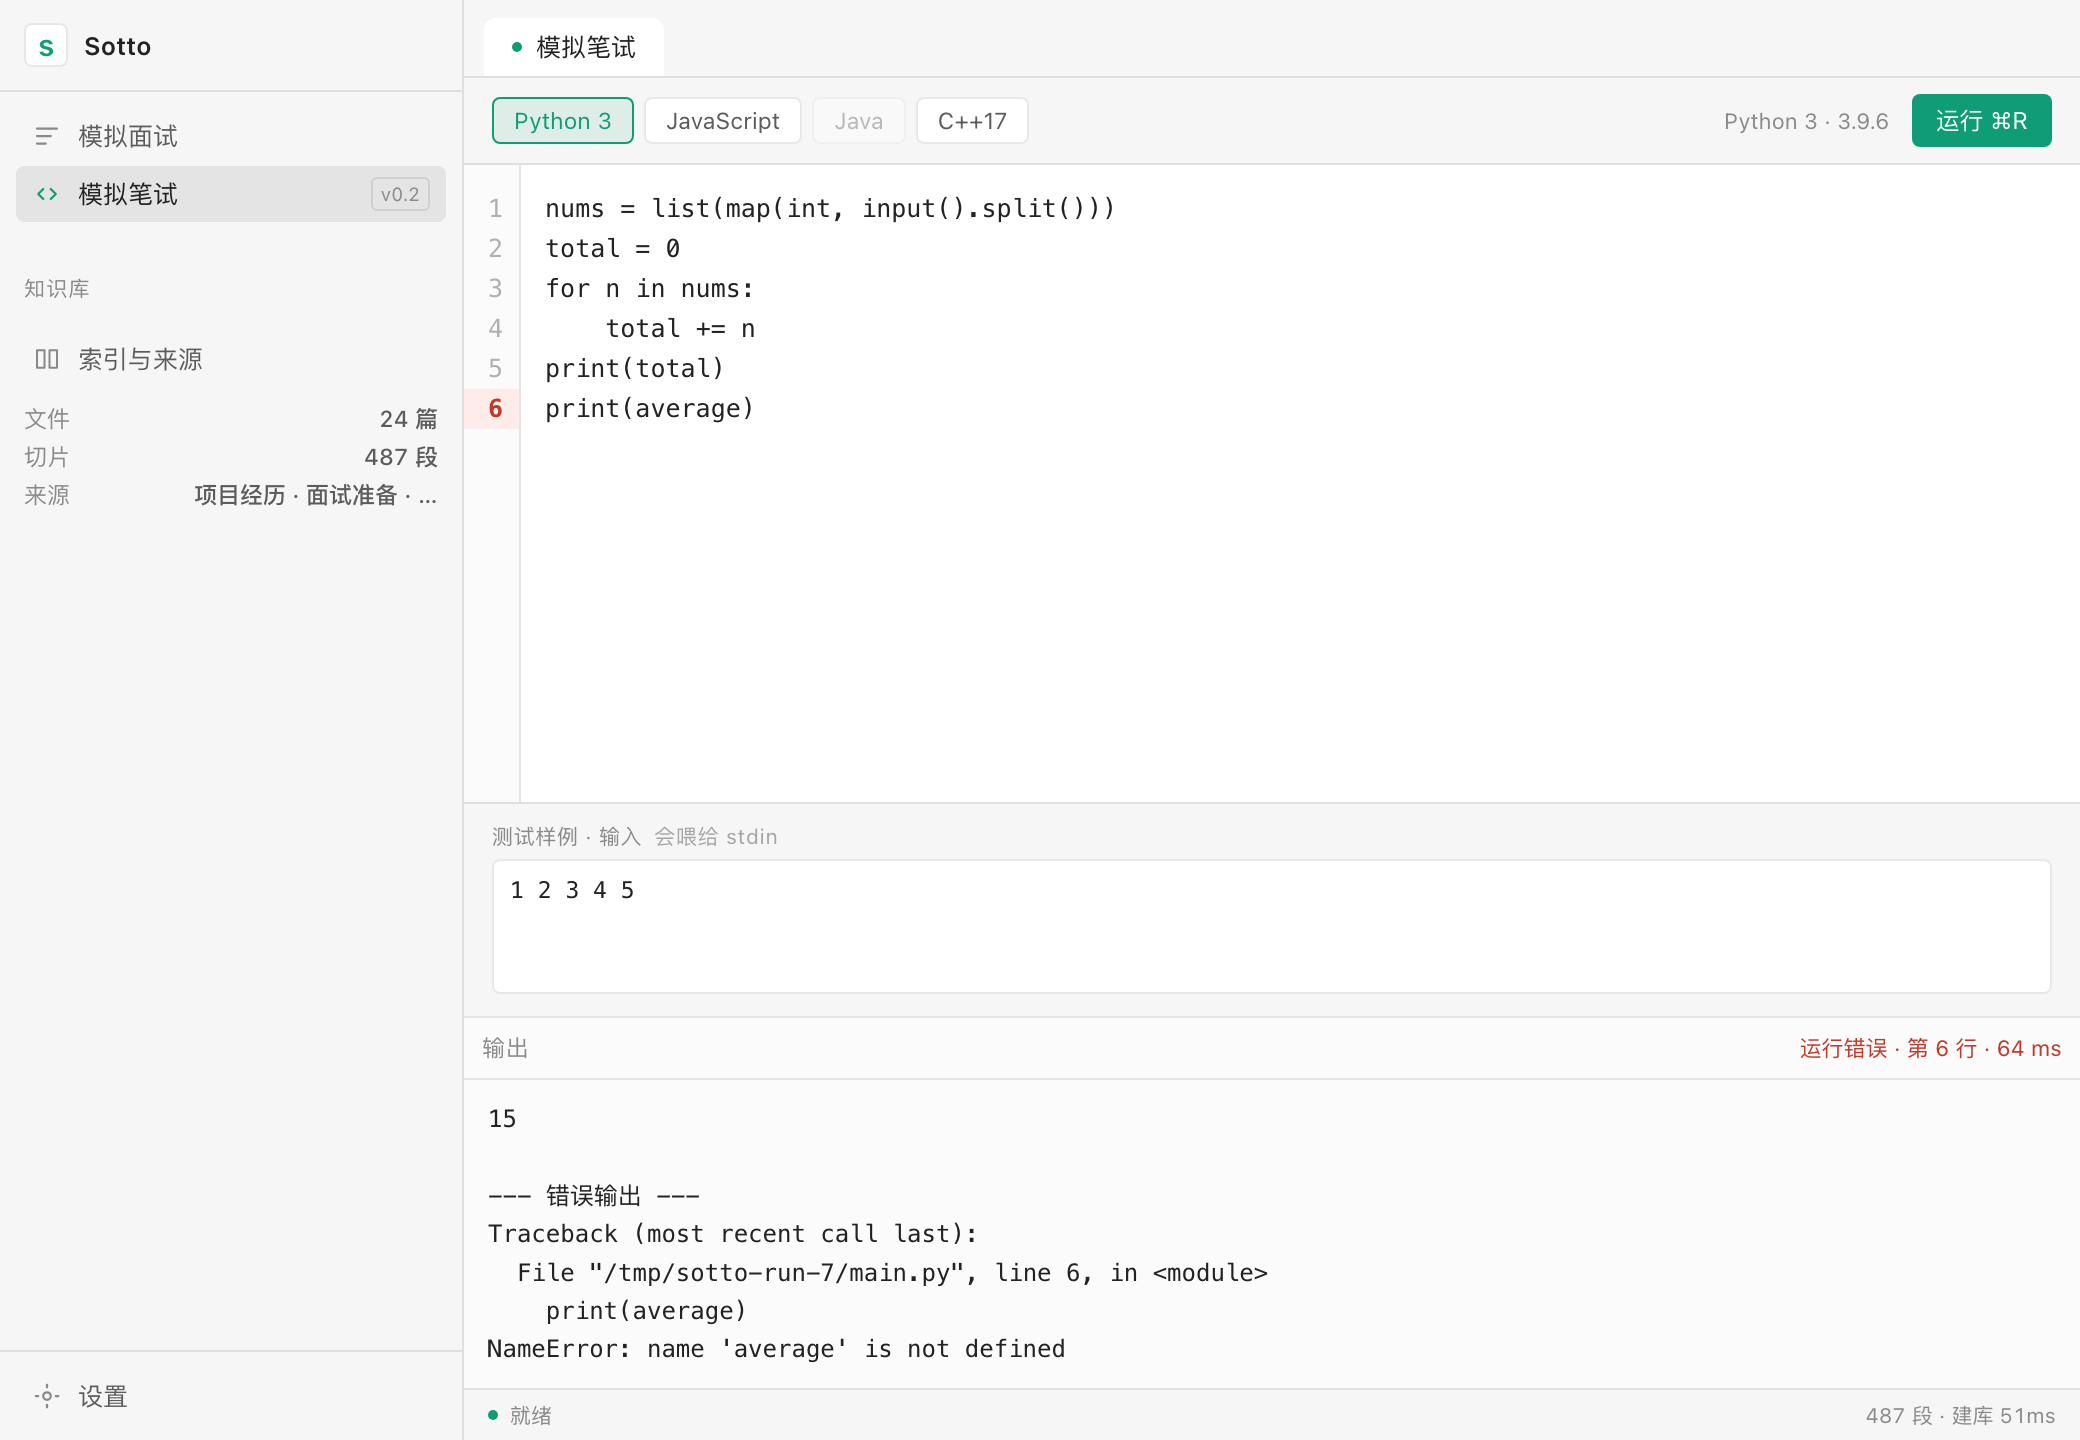
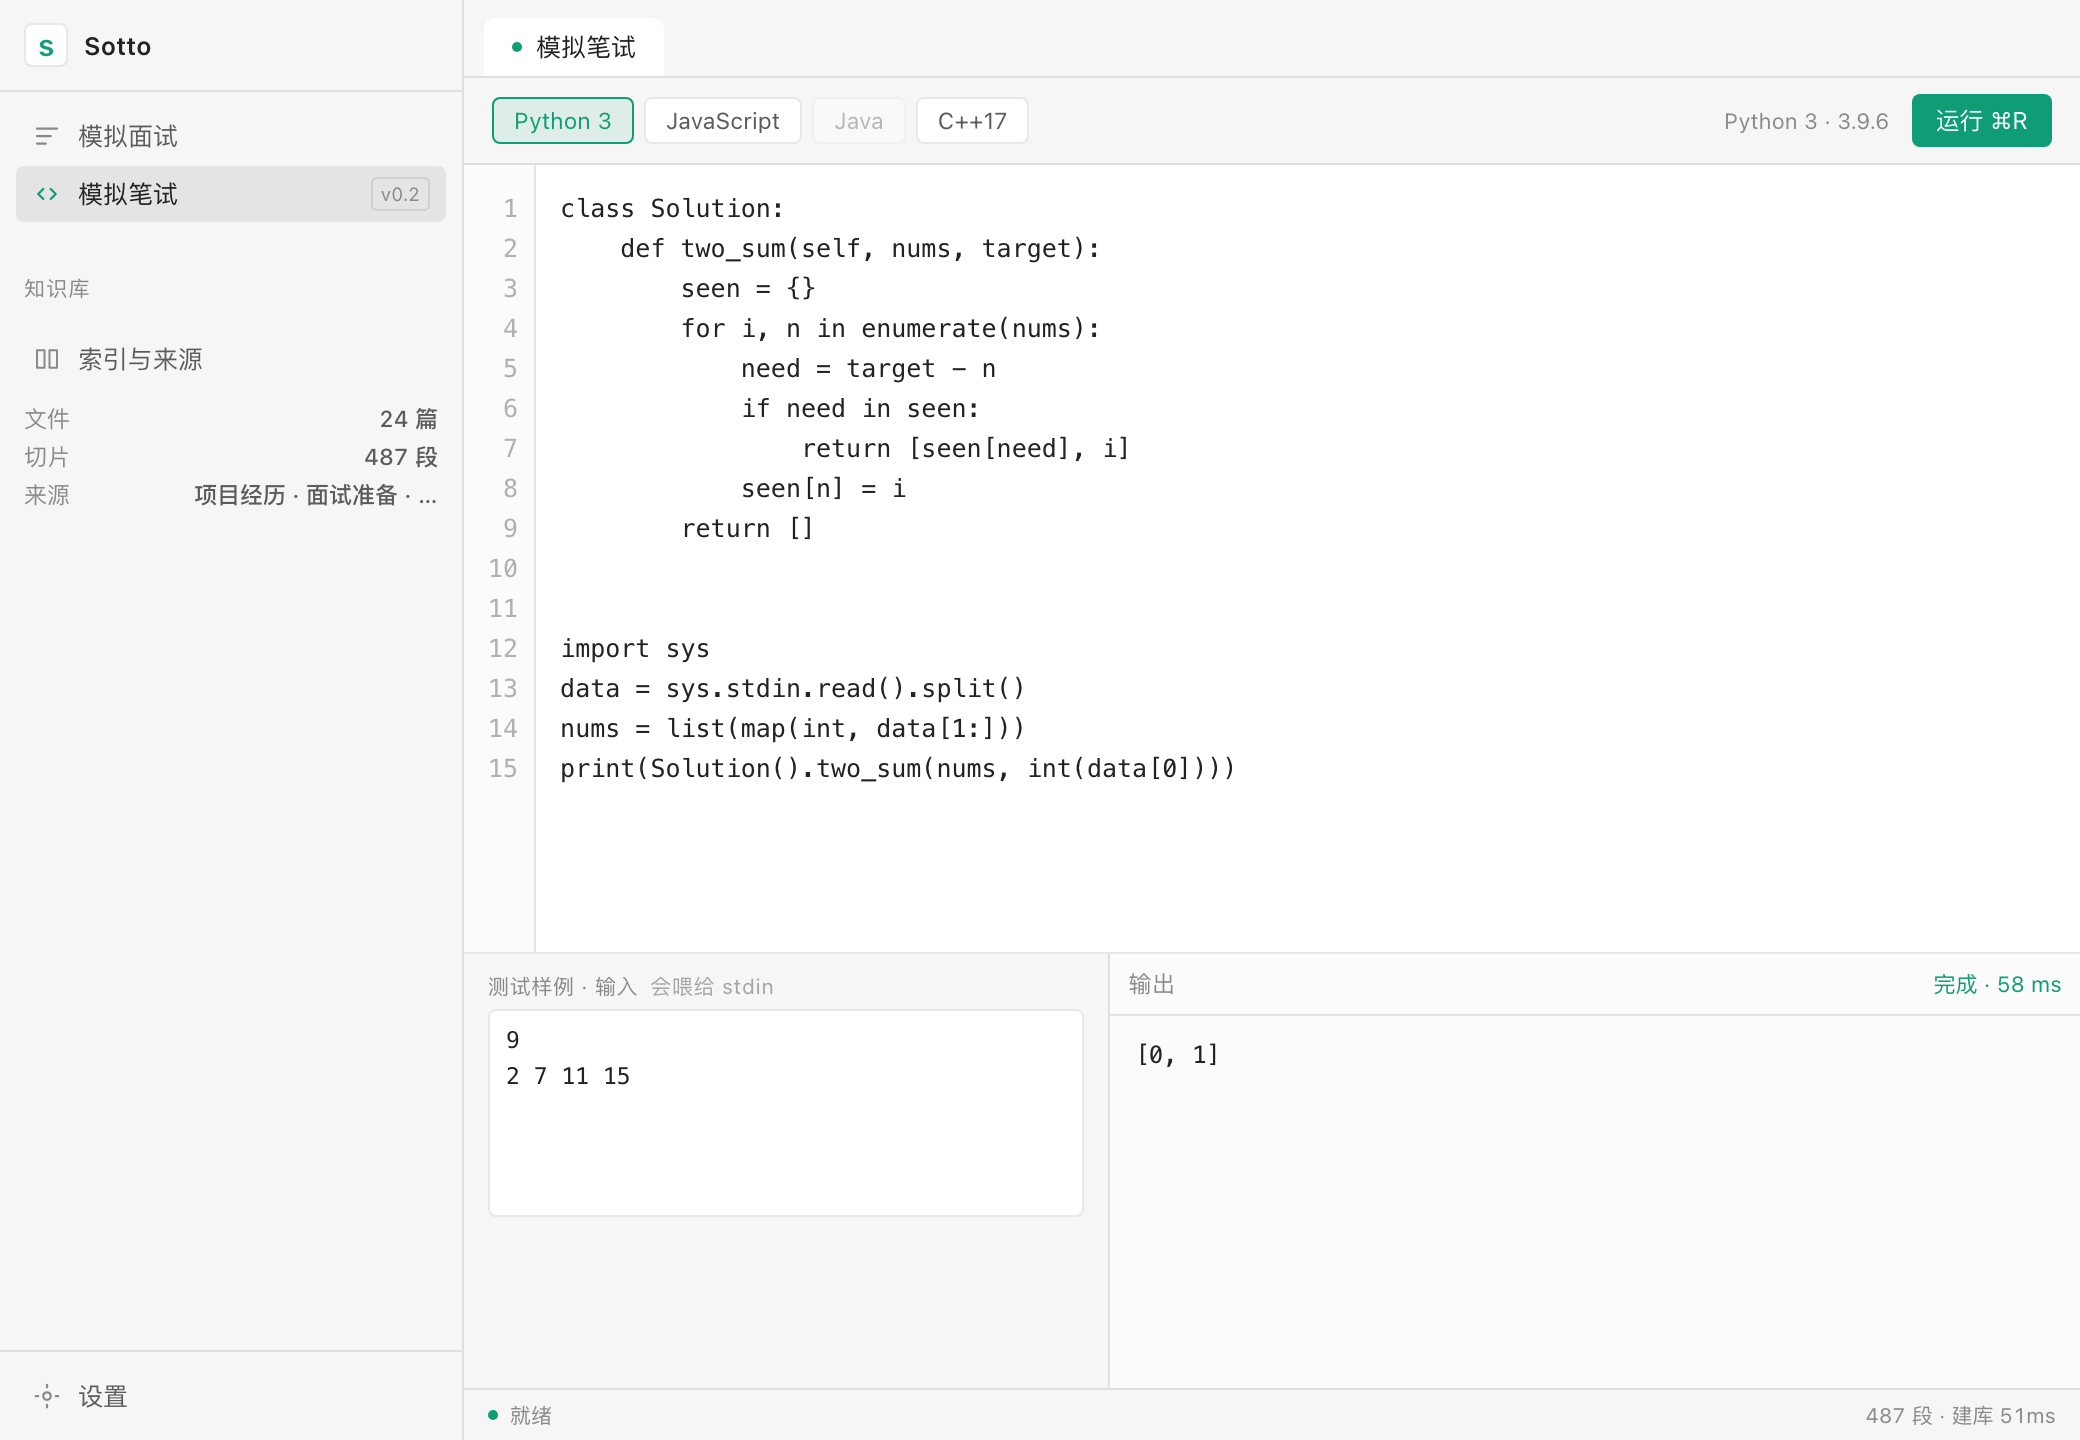
ui: 测试样例与输出改为左右并排，让出的高度归代码区
- 底部合并为一条 218px 的横带：左 40% 样例输入，右 60% 输出
- 代码区因此多出约 70px 高
- 对齐探针复跑：普通/全屏、滚动/未滚动，偏差仍全为 0

diff --git a/ui/index.html b/ui/index.html
@@ -111,19 +111,21 @@
               <textarea id="code" class="code-area" spellcheck="false" autocapitalize="off" autocomplete="off"></textarea>
             </div>
 
-            <div class="samples">
-              <label class="sample">
-                <span>测试样例 · 输入<em>会喂给 stdin</em></span>
-                <textarea id="stdin" class="sample-area" rows="3" placeholder="留空则不喂输入"></textarea>
-              </label>
-            </div>
-
-            <div class="output">
-              <div class="out-head">
-                <span class="out-title">输出</span>
-                <span class="out-meta" id="runMeta"></span>
+            <div class="bottom">
+              <div class="samples">
+                <label class="sample">
+                  <span>测试样例 · 输入<em>会喂给 stdin</em></span>
+                  <textarea id="stdin" class="sample-area" rows="3" placeholder="留空则不喂输入"></textarea>
+                </label>
               </div>
-              <pre id="outBody" class="out-body"></pre>
+
+              <div class="output">
+                <div class="out-head">
+                  <span class="out-title">输出</span>
+                  <span class="out-meta" id="runMeta"></span>
+                </div>
+                <pre id="outBody" class="out-body"></pre>
+              </div>
             </div>
           </div>
         </section>

diff --git a/ui/style.css b/ui/style.css
@@ -737,19 +737,27 @@ textarea::placeholder {
   tab-size: 4;
 }
 
-/* 测试样例 */
-.samples {
+/* 底部：左测试样例 / 右输出 */
+.bottom {
   flex: none;
   display: flex;
-  gap: 14px;
-  padding: 9px 14px 11px;
+  height: 218px;
   border-top: 1px solid var(--border);
+}
+
+.samples {
+  flex: 0 0 40%;
+  min-width: 220px;
+  display: flex;
+  padding: 9px 12px 11px;
+  border-right: 1px solid var(--border);
   background: var(--bg-secondary);
 }
 
 .sample {
   flex: 1;
   min-width: 0;
+  min-height: 0;
   display: flex;
   flex-direction: column;
   gap: 4px;
@@ -768,7 +776,7 @@ textarea::placeholder {
 }
 
 .sample-area {
-  height: 62px;
+  flex: 1;
   padding: 6px 8px;
   border: 1px solid var(--border);
   border-radius: var(--radius-s);
@@ -787,11 +795,10 @@ textarea::placeholder {
 
 /* 输出 */
 .output {
-  flex: none;
-  height: 186px;
+  flex: 1;
+  min-width: 0;
   display: flex;
   flex-direction: column;
-  border-top: 1px solid var(--border);
   background: #fbfbfb;
 }
 
